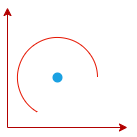
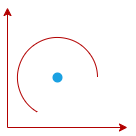
update: img

diff --git a/src/components/HomepageFeatures/index.tsx b/src/components/HomepageFeatures/index.tsx
@@ -12,7 +12,7 @@ interface FeatureItem {
 const FeatureList2D: FeatureItem[] = [
     {
         title: "Convex Hull",
-        Svg: require("@site/static/img/convex_hull.svg").default,
+        Svg: require("@site/static/img/convex-hull-2.svg").default,
         linkUrl: "/docs/algorithm/convex-hull",
     },
 ];
